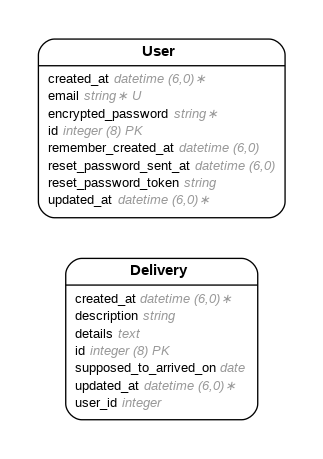
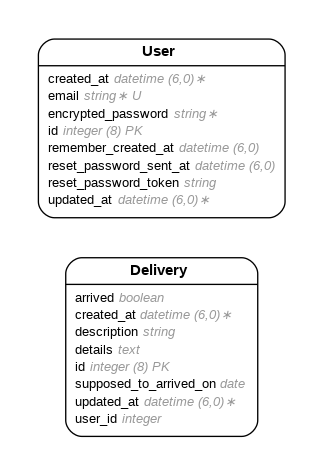
added arrived column to deliveries and updated sample data task

Changed region(s): [[0.0929, 0.061, 0.8978, 0.488], [0.1858, 0.5185, 0.805, 0.9455]]

diff --git a/db/schema.rb b/db/schema.rb
@@ -10,7 +10,7 @@
 #
 # It's strongly recommended that you check this file into your version control system.
 
-ActiveRecord::Schema[7.1].define(version: 2025_03_26_163622) do
+ActiveRecord::Schema[7.1].define(version: 2025_03_26_170034) do
   # These are extensions that must be enabled in order to support this database
   enable_extension "plpgsql"
 
@@ -21,6 +21,7 @@ ActiveRecord::Schema[7.1].define(version: 2025_03_26_163622) do
     t.text "details"
     t.datetime "created_at", null: false
     t.datetime "updated_at", null: false
+    t.boolean "arrived"
   end
 
   create_table "users", force: :cascade do |t|

diff --git a/app/models/delivery.rb b/app/models/delivery.rb
@@ -3,6 +3,7 @@
 # Table name: deliveries
 #
 #  id                     :bigint           not null, primary key
+#  arrived                :boolean
 #  description            :string
 #  details                :text
 #  supposed_to_arrived_on :date

diff --git a/db/migrate/20250326170034_add_arrived_to_deliveries.rb b/db/migrate/20250326170034_add_arrived_to_deliveries.rb
@@ -1,0 +1,5 @@
+class AddArrivedToDeliveries < ActiveRecord::Migration[7.1]
+  def change
+    add_column :deliveries, :arrived, :boolean
+  end
+end

diff --git a/app/controllers/application_controller.rb b/app/controllers/application_controller.rb
@@ -1,3 +1,4 @@
 class ApplicationController < ActionController::Base
+  before_action :authenticate_user!
   skip_forgery_protection
 end
